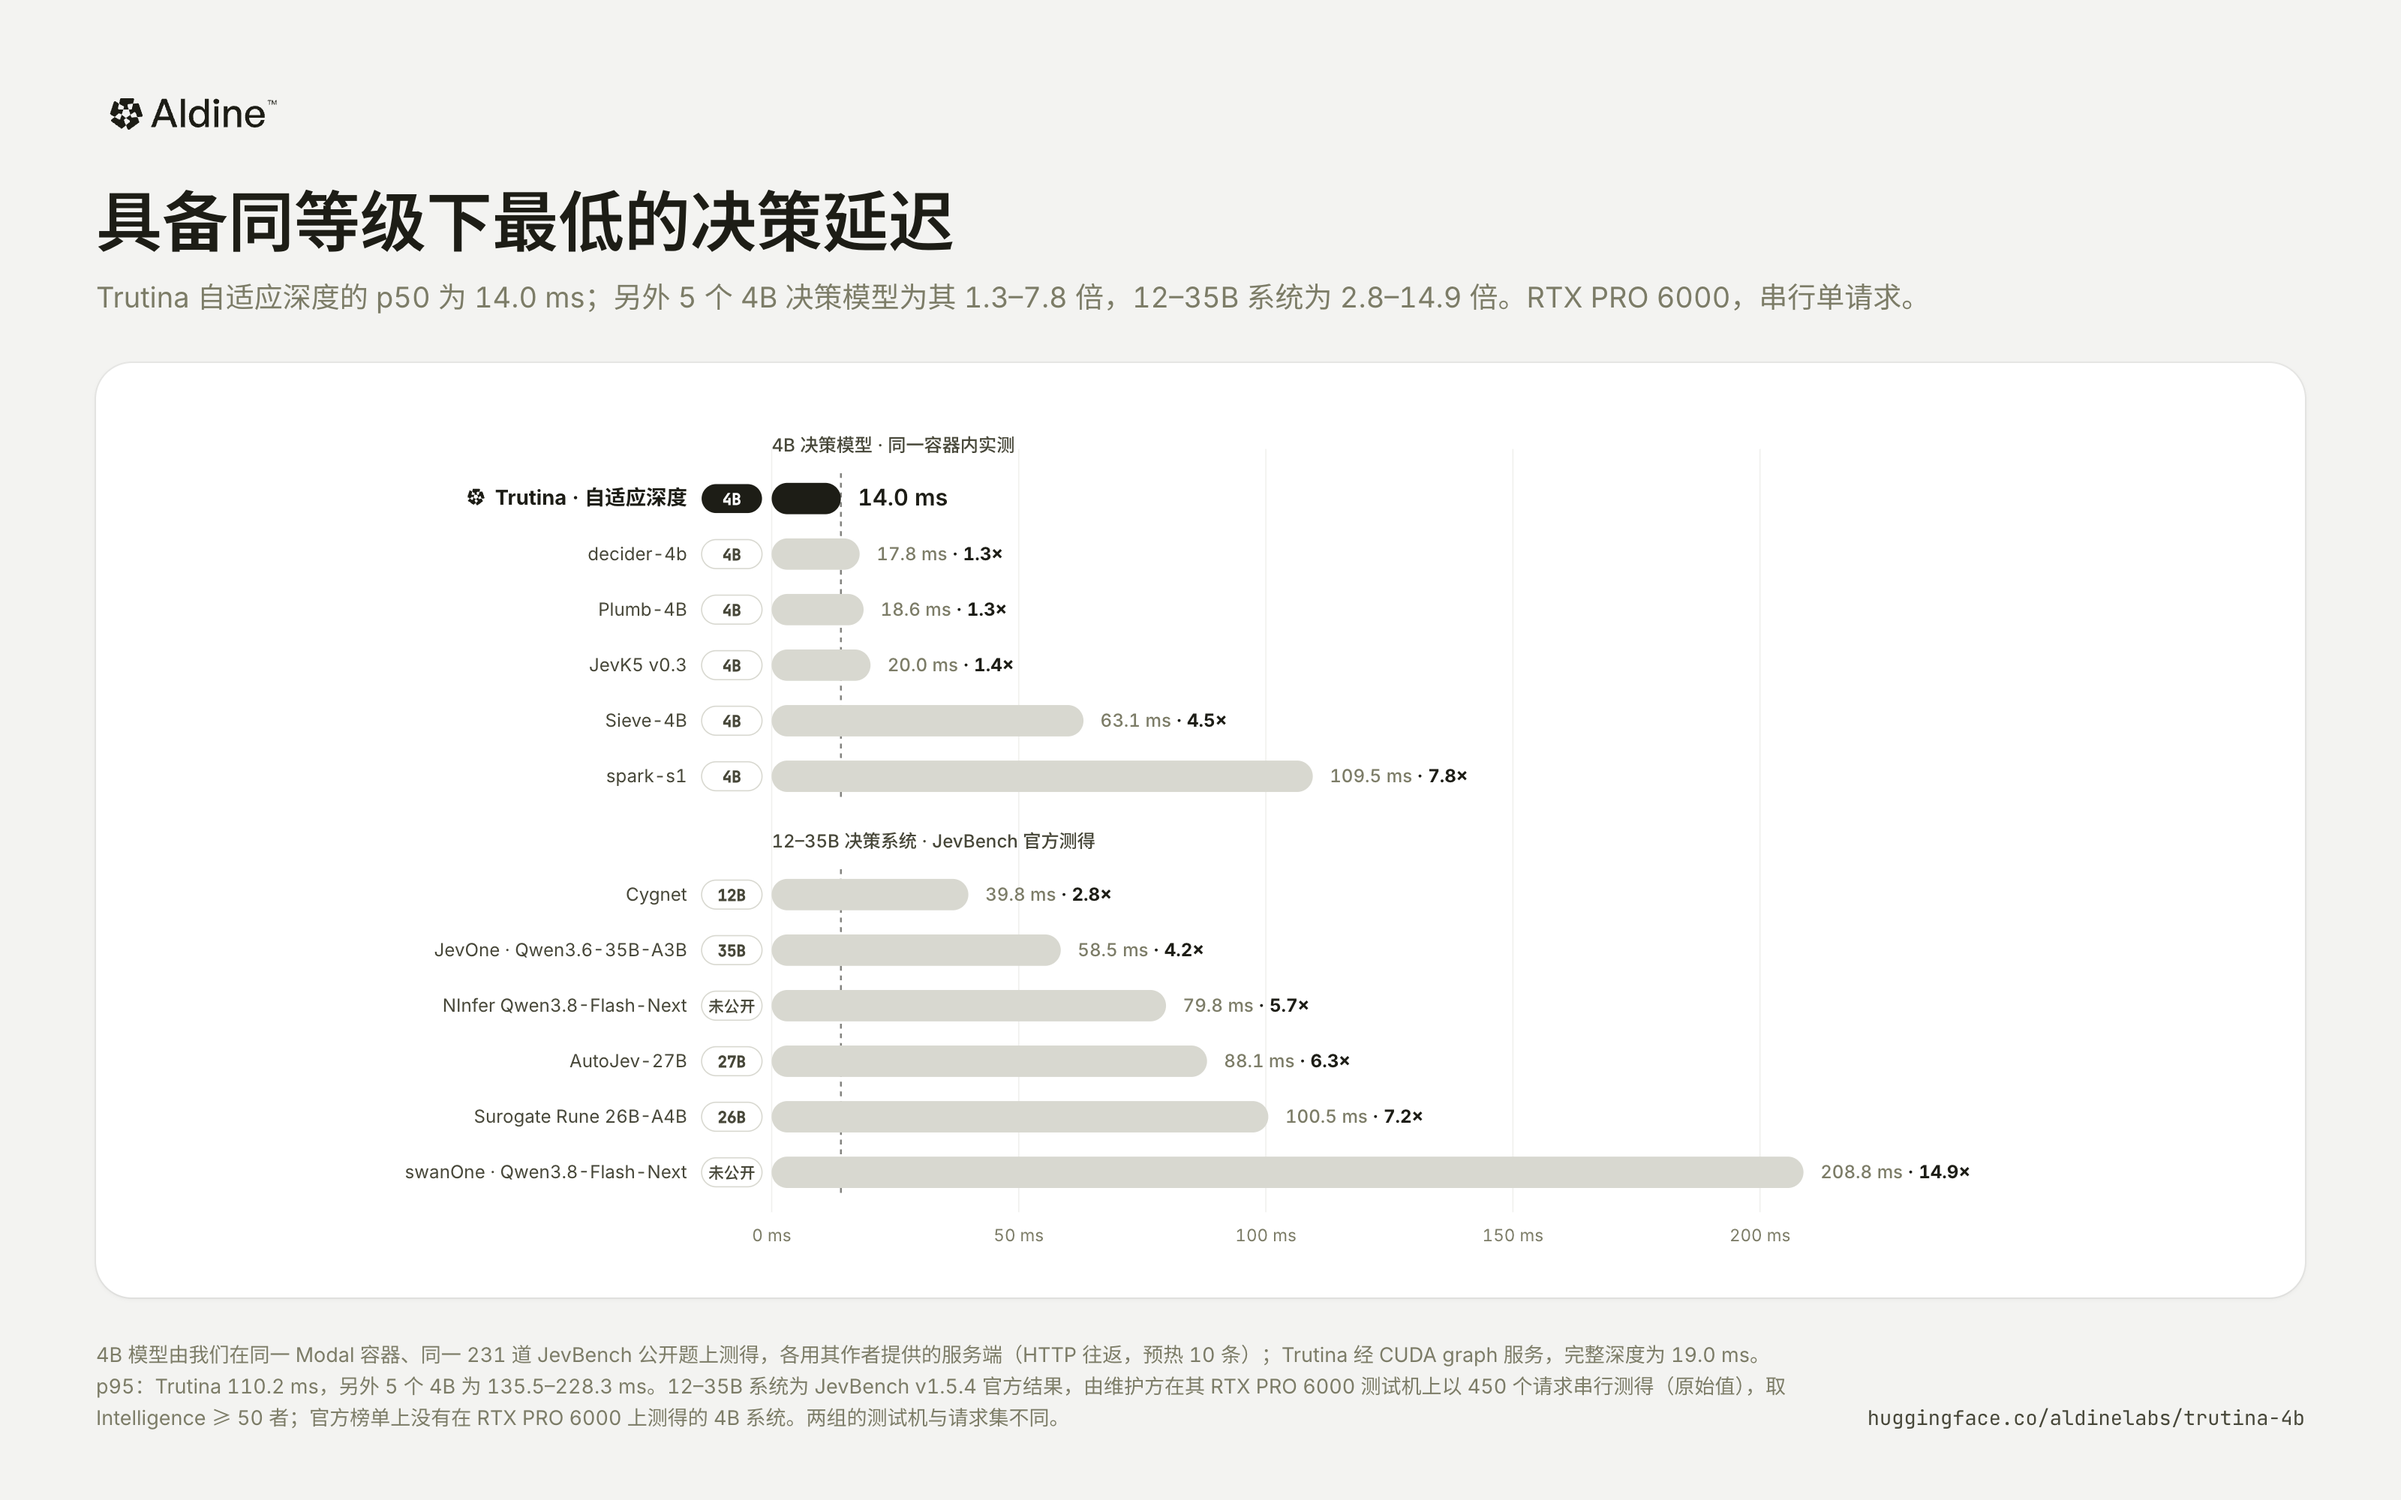
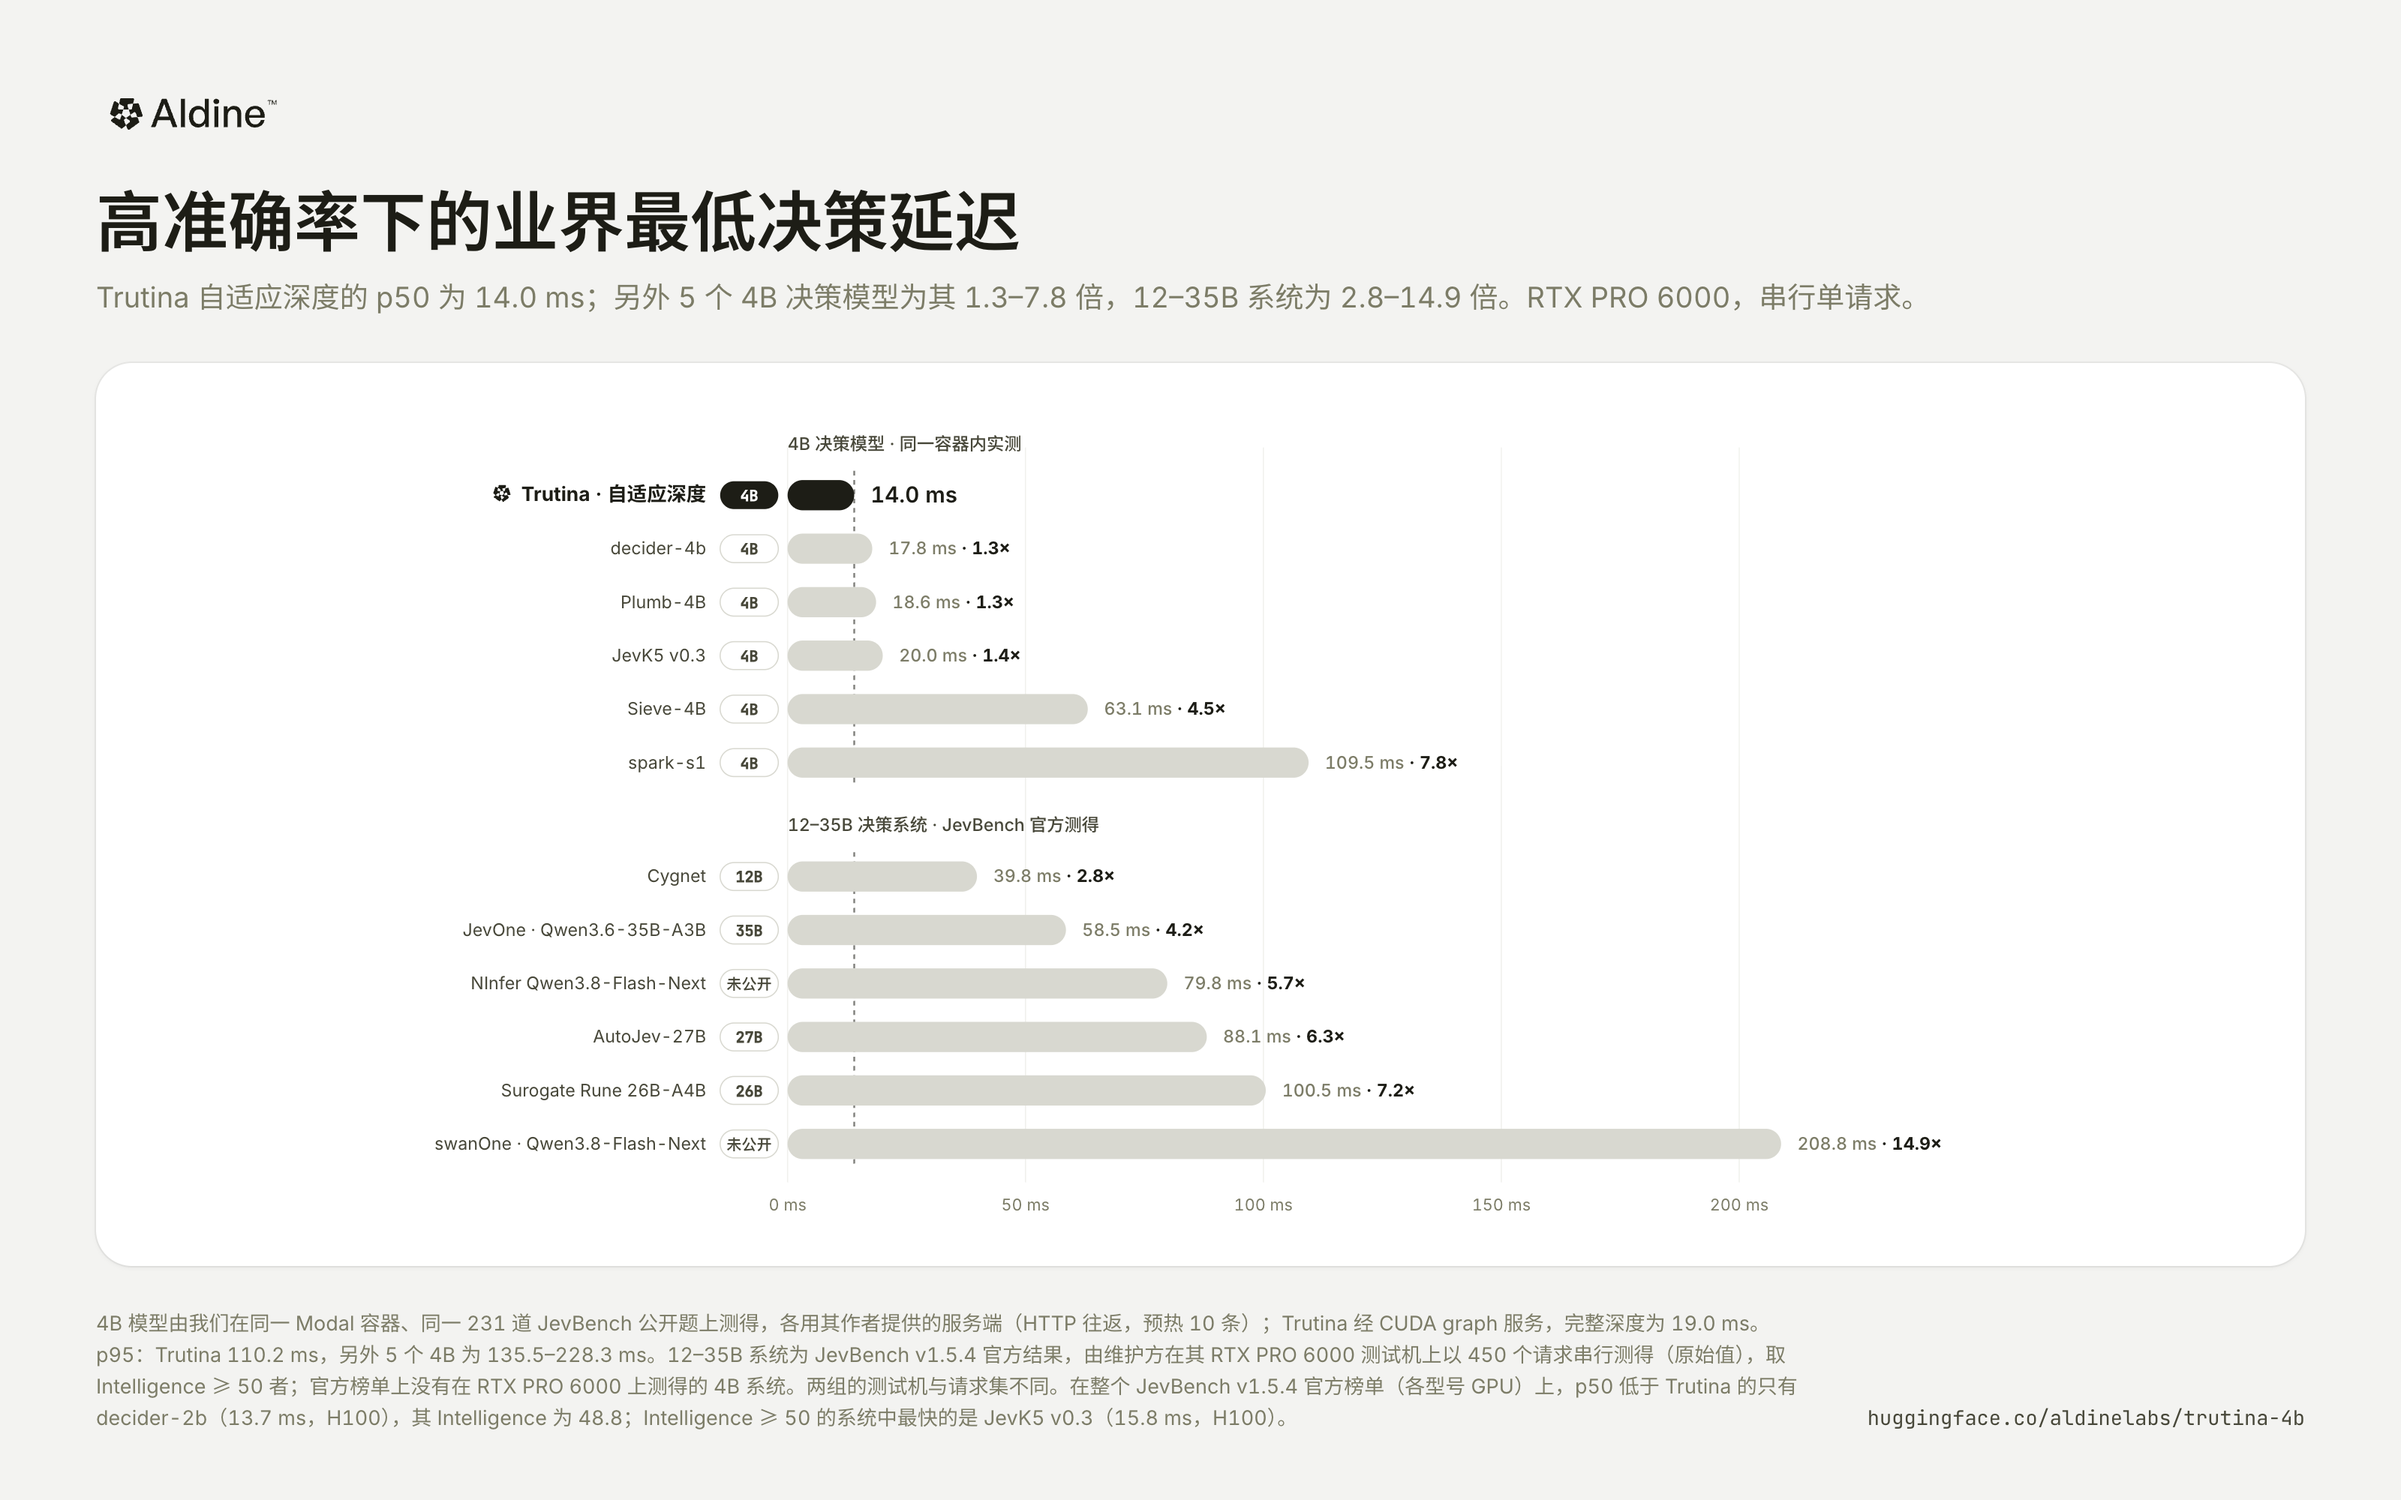
docs: latency chart claims the lowest decision latency at high accuracy, with the official-board evidence in the note

Changed region(s): [[0.1875, 0.279, 0.7812, 0.806], [0.0312, 0.868, 0.75, 0.961], [0.0312, 0.124, 0.4375, 0.186]]

diff --git a/assets/charts/charts.html b/assets/charts/charts.html
@@ -320,15 +320,15 @@ function bigger() {
   const rng = a => `${Math.min(...a).toFixed(1)}–${Math.max(...a).toFixed(1)}`;
   const p95s = small.filter(r => !r.us).map(r => r.p95);
   return frame(zh ? {
-    title: "具备同等级下最低的决策延迟",
+    title: "高准确率下的业界最低决策延迟",
     sub: `Trutina 自适应深度的 p50 为 ${fmt1(ad.p50)} ms；另外 5 个 4B 决策模型为其 ${rng(s4)} 倍，12–35B 系统为 ${rng(sl)} 倍。RTX PRO 6000，串行单请求。`,
     body: `<div class="card">${svgTag(W, H)}${g}</svg></div>`,
-    src: `4B 模型由我们在同一 Modal 容器、同一 231 道 JevBench 公开题上测得，各用其作者提供的服务端（HTTP 往返，预热 10 条）；Trutina 经 CUDA graph 服务，完整深度为 ${fmt1(full.p50)} ms。p95：Trutina ${fmt1(ad.p95)} ms，另外 5 个 4B 为 ${fmt1(Math.min(...p95s))}–${fmt1(Math.max(...p95s))} ms。12–35B 系统为 JevBench v1.5.4 官方结果，由维护方在其 RTX PRO 6000 测试机上以 450 个请求串行测得（原始值），取 Intelligence ≥ 50 者；官方榜单上没有在 RTX PRO 6000 上测得的 4B 系统。两组的测试机与请求集不同。`,
+    src: `4B 模型由我们在同一 Modal 容器、同一 231 道 JevBench 公开题上测得，各用其作者提供的服务端（HTTP 往返，预热 10 条）；Trutina 经 CUDA graph 服务，完整深度为 ${fmt1(full.p50)} ms。p95：Trutina ${fmt1(ad.p95)} ms，另外 5 个 4B 为 ${fmt1(Math.min(...p95s))}–${fmt1(Math.max(...p95s))} ms。12–35B 系统为 JevBench v1.5.4 官方结果，由维护方在其 RTX PRO 6000 测试机上以 450 个请求串行测得（原始值），取 Intelligence ≥ 50 者；官方榜单上没有在 RTX PRO 6000 上测得的 4B 系统。两组的测试机与请求集不同。在整个 JevBench v1.5.4 官方榜单（各型号 GPU）上，p50 低于 Trutina 的只有 decider-2b（13.7 ms，H100），其 Intelligence 为 48.8；Intelligence ≥ 50 的系统中最快的是 JevK5 v0.3（15.8 ms，H100）。`,
   } : {
-    title: "The lowest decision latency in its class",
+    title: "The lowest decision latency at high accuracy",
     sub: `Trutina's adaptive-depth p50 is ${fmt1(ad.p50)} ms; the five other 4B decision models take ${rng(s4)}× as long, the 12–35B systems ${rng(sl)}×. RTX PRO 6000, one request at a time.`,
     body: `<div class="card">${svgTag(W, H)}${g}</svg></div>`,
-    src: `4B models: measured by us in one Modal container on the same 231 public JevBench tasks, each through its authors' server (HTTP round trip, 10 warm-up requests); Trutina is served with CUDA graphs and takes ${fmt1(full.p50)} ms at full depth. p95: Trutina ${fmt1(ad.p95)} ms, the other 4B models ${fmt1(Math.min(...p95s))}–${fmt1(Math.max(...p95s))} ms. 12–35B systems: JevBench v1.5.4 official results, measured by the maintainers on their RTX PRO 6000 pods over 450 serial requests (raw), those with Intelligence ≥ 50; the official board has no 4B system measured on an RTX PRO 6000. The two groups differ in machines and requests.`,
+    src: `4B models: measured by us in one Modal container on the same 231 public JevBench tasks, each through its authors' server (HTTP round trip, 10 warm-up requests); Trutina is served with CUDA graphs and takes ${fmt1(full.p50)} ms at full depth. p95: Trutina ${fmt1(ad.p95)} ms, the other 4B models ${fmt1(Math.min(...p95s))}–${fmt1(Math.max(...p95s))} ms. 12–35B systems: JevBench v1.5.4 official results, measured by the maintainers on their RTX PRO 6000 pods over 450 serial requests (raw), those with Intelligence ≥ 50; the official board has no 4B system measured on an RTX PRO 6000. The two groups differ in machines and requests. Across the whole JevBench v1.5.4 official board (any GPU), only decider-2b (13.7 ms, H100) has a lower p50 than Trutina, at Intelligence 48.8; the fastest system at Intelligence ≥ 50 is JevK5 v0.3 (15.8 ms, H100).`,
   });
 }
 
